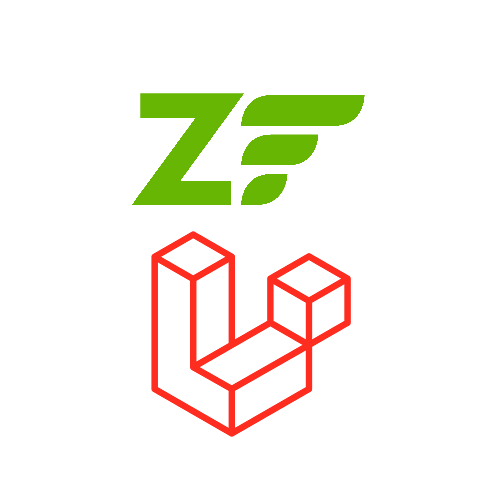
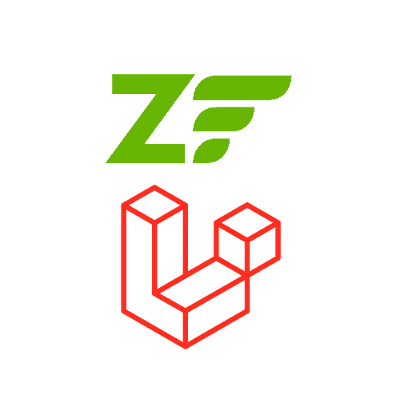
[update] images 400x400

diff --git a/index.html b/index.html
@@ -602,7 +602,7 @@ $("#owl-demo").owlCarousel({
     font-size: 12px;
     display: block;
     background-color: rgba(0, 0, 0, 0.5);
-    width: 500px;
+    width: 400px;
     margin: 0 auto;
 }
 
